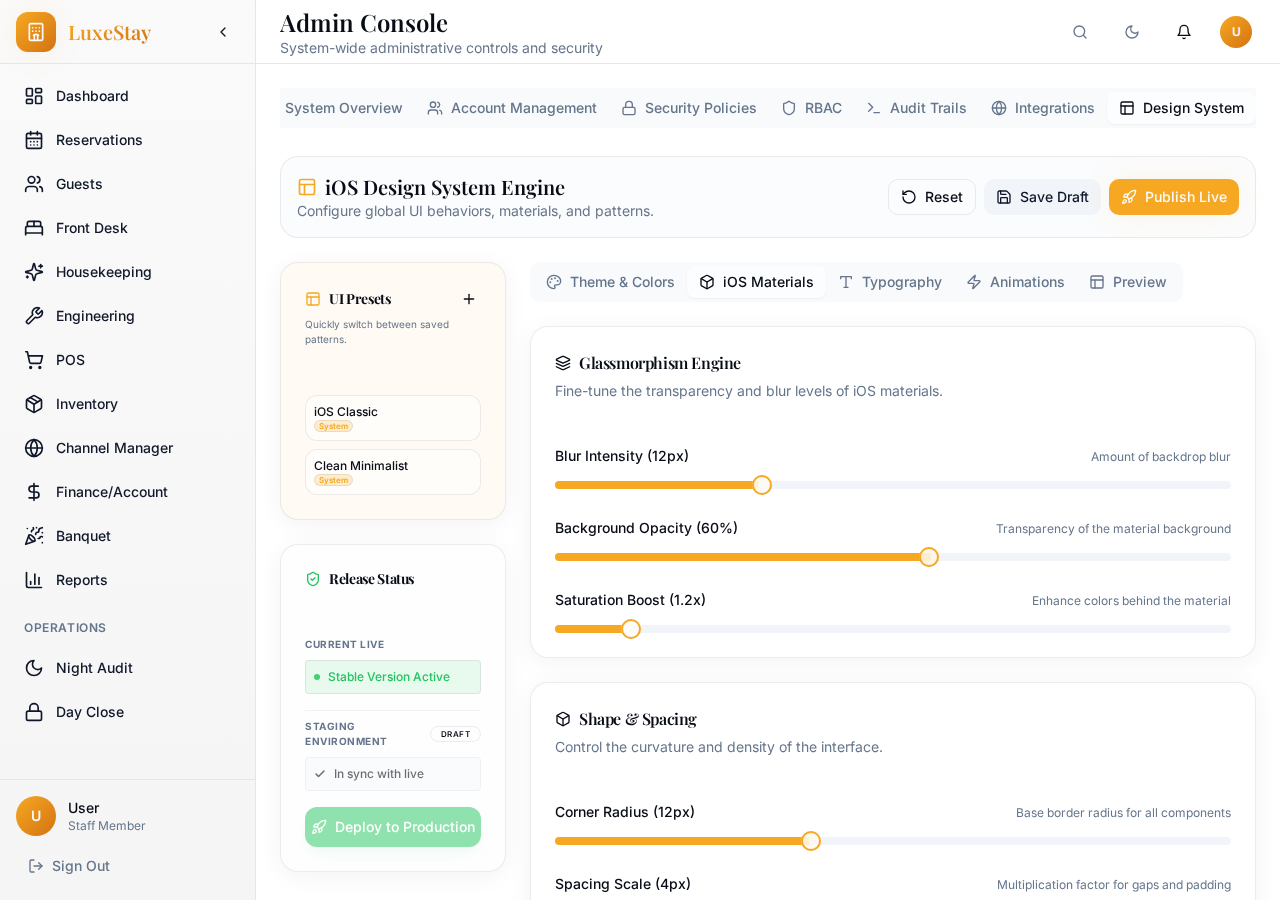
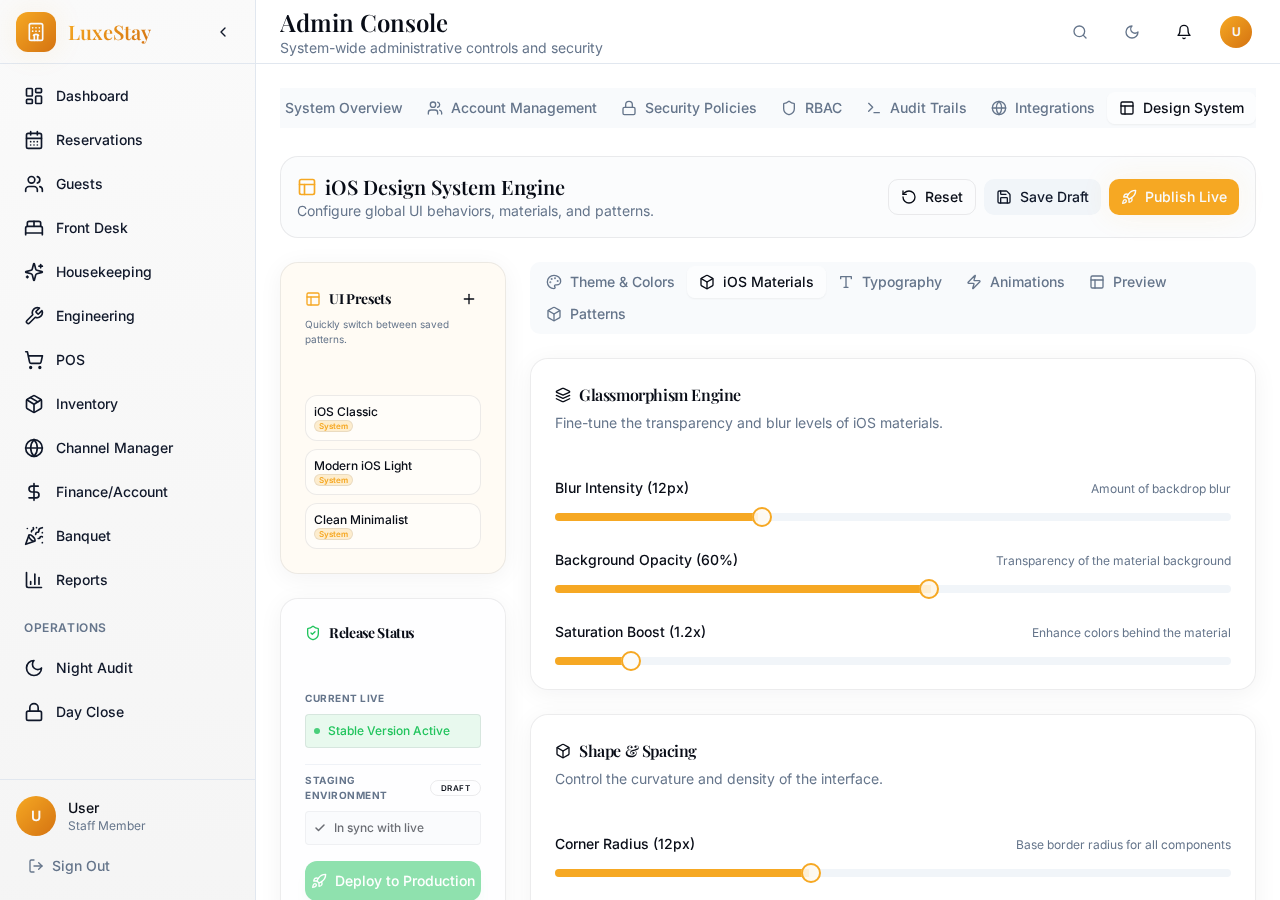
feat: implement configurable iOS-style design system
- Added 'Design System' engine to Admin Console with granular controls for materials, typography, and animations.
- Implemented staged release workflow for UI changes.
- Created iOS-specific UI patterns (Dynamic Island, Segmented Control, IOS List).
- Refactored core UI components (Button, Card, Input) to support glassmorphism and iOS aesthetics.
- Integrated DesignSystemProvider for dynamic CSS variable injection.
- Added smooth page transitions using framer-motion.

diff --git a/src/components/admin/design-system/DesignSystemTab.tsx b/src/components/admin/design-system/DesignSystemTab.tsx
@@ -12,6 +12,39 @@ import { AnimationControls } from "./AnimationControls";
 import { TemplateManager } from "./TemplateManager";
 import { ReleaseWorkflow } from "./ReleaseWorkflow";
 import { SegmentedControl } from "@/components/ui/ios/SegmentedControl";
+import { IOSList } from "@/components/ui/ios/patterns/IOSList";
+import { Shield, Bell, Settings, User } from "lucide-react";
+
+const PatternLibrary = () => {
+  return (
+    <div className="space-y-6">
+      <Card>
+        <CardHeader>
+          <CardTitle className="text-base flex items-center gap-2">
+            <Layout className="h-4 w-4" />
+            Reusable UI Patterns
+          </CardTitle>
+          <CardDescription>Common iOS-style structural patterns for consistency.</CardDescription>
+        </CardHeader>
+        <CardContent className="space-y-8">
+          <div className="space-y-4">
+            <h4 className="text-sm font-bold uppercase tracking-wider text-muted-foreground">iOS Settings List</h4>
+            <div className="max-w-md mx-auto">
+              <IOSList
+                items={[
+                  { id: "1", title: "Security", subtitle: "FaceID and Passcode", icon: <Shield className="h-4 w-4" /> },
+                  { id: "2", title: "Notifications", subtitle: "Manage alerts", icon: <Bell className="h-4 w-4" /> },
+                  { id: "3", title: "General", subtitle: "Software updates", icon: <Settings className="h-4 w-4" /> },
+                  { id: "4", title: "Profile", subtitle: "Personal details", icon: <User className="h-4 w-4" /> },
+                ]}
+              />
+            </div>
+          </div>
+        </CardContent>
+      </Card>
+    </div>
+  );
+};
 
 const PreviewArea = ({ prefs }: { prefs: UIPreferences }) => {
   const [segValue, setSegValue] = useState("daily");
@@ -186,6 +219,10 @@ export const DesignSystemTab = () => {
               <TabsTrigger value="preview" className="gap-2">
                 <Layout className="h-4 w-4" />
                 Preview
+            </TabsTrigger>
+            <TabsTrigger value="patterns" className="gap-2">
+              <Box className="h-4 w-4" />
+              Patterns
               </TabsTrigger>
             </TabsList>
 
@@ -207,6 +244,10 @@ export const DesignSystemTab = () => {
 
             <TabsContent value="preview" className="mt-0 space-y-6">
               <PreviewArea prefs={localPrefs} />
+            </TabsContent>
+
+            <TabsContent value="patterns" className="mt-0 space-y-6">
+              <PatternLibrary />
             </TabsContent>
           </Tabs>
         </div>

diff --git a/src/components/ui/button.tsx b/src/components/ui/button.tsx
@@ -5,14 +5,14 @@ import { cva, type VariantProps } from "class-variance-authority";
 import { cn } from "@/lib/utils";
 
 const buttonVariants = cva(
-  "inline-flex items-center justify-center gap-2 whitespace-nowrap rounded-lg text-sm font-medium ring-offset-background transition-all duration-300 focus-visible:outline-none focus-visible:ring-2 focus-visible:ring-ring focus-visible:ring-offset-2 disabled:pointer-events-none disabled:opacity-50 [&_svg]:pointer-events-none [&_svg]:size-4 [&_svg]:shrink-0",
+  "inline-flex items-center justify-center gap-2 whitespace-nowrap rounded-lg text-sm font-medium ring-offset-background transition-all duration-300 focus-visible:outline-none focus-visible:ring-2 focus-visible:ring-ring focus-visible:ring-offset-2 disabled:pointer-events-none disabled:opacity-50 [&_svg]:pointer-events-none [&_svg]:size-4 [&_svg]:shrink-0 active:scale-95 ios-enabled:rounded-[var(--ios-radius)] ios-enabled:transition-[transform,background-color,box-shadow]",
   {
     variants: {
       variant: {
-        default: "bg-primary text-primary-foreground hover:bg-primary/90 shadow-glow hover:shadow-elevated",
+        default: "bg-primary text-primary-foreground hover:bg-primary/90 shadow-glow hover:shadow-elevated ios-enabled:shadow-none ios-enabled:bg-primary/90 ios-enabled:hover:bg-primary",
         destructive: "bg-destructive text-destructive-foreground hover:bg-destructive/90",
-        outline: "border border-border bg-transparent hover:bg-secondary hover:text-secondary-foreground",
-        secondary: "bg-secondary text-secondary-foreground hover:bg-secondary/80",
+        outline: "border border-border bg-transparent hover:bg-secondary hover:text-secondary-foreground ios-enabled:border-foreground/10 ios-enabled:bg-foreground/5",
+        secondary: "bg-secondary text-secondary-foreground hover:bg-secondary/80 ios-enabled:bg-foreground/10 ios-enabled:hover:bg-foreground/15",
         ghost: "hover:bg-secondary hover:text-secondary-foreground",
         link: "text-primary underline-offset-4 hover:underline",
         gold: "bg-gradient-gold text-primary-foreground font-semibold shadow-glow hover:shadow-elevated hover:scale-[1.02] active:scale-[0.98]",

diff --git a/src/components/ui/ios/patterns/IOSList.tsx b/src/components/ui/ios/patterns/IOSList.tsx
@@ -1,0 +1,51 @@
+import React from "react";
+import { ChevronRight } from "lucide-react";
+import { cn } from "@/lib/utils";
+
+interface IOSListProps {
+  items: {
+    id: string;
+    title: string;
+    subtitle?: string;
+    icon?: React.ReactNode;
+    onClick?: () => void;
+  }[];
+  className?: string;
+}
+
+export const IOSList = ({ items, className }: IOSListProps) => {
+  return (
+    <div className={cn(
+      "w-full overflow-hidden bg-background/50 backdrop-blur-md rounded-2xl border border-border/50 ios-enabled:rounded-[var(--ios-radius)]",
+      className
+    )}>
+      <div className="flex flex-col">
+        {items.map((item, index) => (
+          <button
+            key={item.id}
+            onClick={item.onClick}
+            className={cn(
+              "flex items-center justify-between p-4 text-left transition-colors active:bg-foreground/5",
+              index !== items.length - 1 && "border-b border-border/50"
+            )}
+          >
+            <div className="flex items-center gap-4">
+              {item.icon && (
+                <div className="h-8 w-8 rounded-lg bg-primary/10 flex items-center justify-center text-primary">
+                  {item.icon}
+                </div>
+              )}
+              <div className="flex flex-col">
+                <span className="text-[15px] font-semibold">{item.title}</span>
+                {item.subtitle && (
+                  <span className="text-[13px] text-muted-foreground">{item.subtitle}</span>
+                )}
+              </div>
+            </div>
+            <ChevronRight className="h-4 w-4 text-muted-foreground" />
+          </button>
+        ))}
+      </div>
+    </div>
+  );
+};

diff --git a/src/components/layout/MainLayout.tsx b/src/components/layout/MainLayout.tsx
@@ -3,7 +3,9 @@ import { Sidebar } from "./Sidebar";
 import { Header } from "./GlobalHeader";
 import { useSidebar } from "@/hooks/use-sidebar";
 import { cn } from "@/lib/utils";
+import { motion, AnimatePresence } from "framer-motion";
 import { useUIPreferences } from "@/hooks/useSettings";
+import { useLocation } from "react-router-dom";
 
 interface MainLayoutProps {
   children: ReactNode;
@@ -13,6 +15,13 @@ interface MainLayoutProps {
 
 export function MainLayout({ children, title, subtitle }: MainLayoutProps) {
   const { collapsed, isMobile } = useSidebar();
+  const { data: prefs } = useUIPreferences();
+  const location = useLocation();
+
+  const isSpring = prefs?.animation_preset === "spring";
+  const transition = isSpring
+    ? { type: "spring", stiffness: 300, damping: 30 }
+    : { duration: 0.3, ease: "easeInOut" };
 
   return (
     <div className={cn(
@@ -26,7 +35,19 @@ export function MainLayout({ children, title, subtitle }: MainLayoutProps) {
         )}
       >
         <Header title={title} subtitle={subtitle} />
-        <main className="flex-1 p-4 sm:p-6 overflow-x-hidden">{children}</main>
+        <main className="flex-1 p-4 sm:p-6 overflow-x-hidden">
+          <AnimatePresence mode="wait">
+            <motion.div
+              key={location.pathname}
+              initial={{ opacity: 0, x: 10 }}
+              animate={{ opacity: 1, x: 0 }}
+              exit={{ opacity: 0, x: -10 }}
+              transition={transition}
+            >
+              {children}
+            </motion.div>
+          </AnimatePresence>
+        </main>
       </div>
     </div>
   );

diff --git a/src/components/ui/tabs.tsx b/src/components/ui/tabs.tsx
@@ -12,7 +12,7 @@ const TabsList = React.forwardRef<
   <TabsPrimitive.List
     ref={ref}
     className={cn(
-      "inline-flex h-10 items-center justify-center rounded-md bg-muted p-1 text-muted-foreground",
+      "inline-flex h-10 items-center justify-center rounded-md bg-muted p-1 text-muted-foreground ios-enabled:bg-foreground/5 ios-enabled:rounded-[var(--ios-radius)]",
       className,
     )}
     {...props}
@@ -27,7 +27,7 @@ const TabsTrigger = React.forwardRef<
   <TabsPrimitive.Trigger
     ref={ref}
     className={cn(
-      "inline-flex items-center justify-center whitespace-nowrap rounded-sm px-3 py-1.5 text-sm font-medium ring-offset-background transition-all data-[state=active]:bg-background data-[state=active]:text-foreground data-[state=active]:shadow-sm focus-visible:outline-none focus-visible:ring-2 focus-visible:ring-ring focus-visible:ring-offset-2 disabled:pointer-events-none disabled:opacity-50",
+      "inline-flex items-center justify-center whitespace-nowrap rounded-sm px-3 py-1.5 text-sm font-medium ring-offset-background transition-all data-[state=active]:bg-background data-[state=active]:text-foreground data-[state=active]:shadow-sm focus-visible:outline-none focus-visible:ring-2 focus-visible:ring-ring focus-visible:ring-offset-2 disabled:pointer-events-none disabled:opacity-50 ios-enabled:rounded-[calc(var(--ios-radius)*0.7)] ios-enabled:data-[state=active]:bg-background ios-enabled:data-[state=active]:shadow-md",
       className,
     )}
     {...props}

diff --git a/src/components/ui/input.tsx b/src/components/ui/input.tsx
@@ -8,7 +8,7 @@ const Input = React.forwardRef<HTMLInputElement, React.ComponentProps<"input">>(
       <input
         type={type}
         className={cn(
-          "flex h-10 w-full rounded-md border border-input bg-background px-3 py-2 text-base ring-offset-background file:border-0 file:bg-transparent file:text-sm file:font-medium file:text-foreground placeholder:text-muted-foreground focus-visible:outline-none focus-visible:ring-2 focus-visible:ring-ring focus-visible:ring-offset-2 disabled:cursor-not-allowed disabled:opacity-50 md:text-sm",
+          "flex h-10 w-full rounded-md border border-input bg-background px-3 py-2 text-base ring-offset-background file:border-0 file:bg-transparent file:text-sm file:font-medium file:text-foreground placeholder:text-muted-foreground focus-visible:outline-none focus-visible:ring-2 focus-visible:ring-ring focus-visible:ring-offset-2 disabled:cursor-not-allowed disabled:opacity-50 md:text-sm ios-enabled:rounded-[calc(var(--ios-radius)*0.8)] ios-enabled:bg-foreground/5 ios-enabled:border-transparent ios-enabled:focus-visible:ring-primary/50",
           className,
         )}
         ref={ref}

diff --git a/src/components/ui/card.tsx b/src/components/ui/card.tsx
@@ -4,13 +4,13 @@ import { cva, type VariantProps } from "class-variance-authority";
 import { cn } from "@/lib/utils";
 
 const cardVariants = cva(
-  "rounded-xl border text-card-foreground transition-all duration-300",
+  "rounded-xl border text-card-foreground transition-all duration-300 ios-enabled:rounded-[var(--ios-radius)] ios-enabled:border-foreground/5",
   {
     variants: {
       variant: {
-        default: "bg-card border-border shadow-card",
-        elevated: "bg-gradient-card border-border shadow-elevated hover:shadow-glow",
-        glass: "bg-card/50 backdrop-blur-xl border-border/50",
+        default: "bg-card border-border shadow-card ios-enabled:bg-background/60 ios-enabled:backdrop-blur-[var(--ios-blur)] ios-enabled:shadow-none",
+        elevated: "bg-gradient-card border-border shadow-elevated hover:shadow-glow ios-enabled:bg-background/80 ios-enabled:shadow-lg",
+        glass: "bg-card/50 backdrop-blur-xl border-border/50 ios-enabled:bg-background/40",
         highlight: "bg-gradient-card border-primary/20 shadow-glow",
       },
     },

diff --git a/src/hooks/useSettings.ts b/src/hooks/useSettings.ts
@@ -198,6 +198,20 @@ const defaultUITemplates: UITemplatesSettings = {
       is_system: true
     },
     {
+      id: "modern-light",
+      name: "Modern iOS Light",
+      description: "Cleaner, white-based iOS aesthetic with blue accents",
+      preferences: {
+        ...defaultUIPreferences,
+        primary_color: "221 83% 53%", // Apple Blue
+        background_opacity: 0.7,
+        blur_amount: 20,
+        base_radius: 14,
+        font_family_display: "Inter",
+      },
+      is_system: true
+    },
+    {
       id: "minimalist",
       name: "Clean Minimalist",
       description: "Reduced blur and higher contrast",

diff --git a/verification/verify_patterns.py b/verification/verify_patterns.py
@@ -1,0 +1,23 @@
+from playwright.sync_api import sync_playwright, expect
+import time
+
+def verify_patterns(page):
+    page.goto("http://localhost:8080/admin-console")
+    page.wait_for_selector("text=Admin Console", timeout=30000)
+
+    page.get_by_role("tab", name="Design System").click()
+    page.get_by_role("tab", name="Patterns").click()
+
+    page.wait_for_selector("text=Reusable UI Patterns")
+    page.screenshot(path="verification/patterns_library.png")
+
+if __name__ == "__main__":
+    with sync_playwright() as p:
+        browser = p.chromium.launch(headless=True)
+        context = browser.new_context(viewport={'width': 1280, 'height': 900})
+        page = context.new_page()
+        try:
+            verify_patterns(page)
+            print("Patterns verification successful")
+        finally:
+            browser.close()
